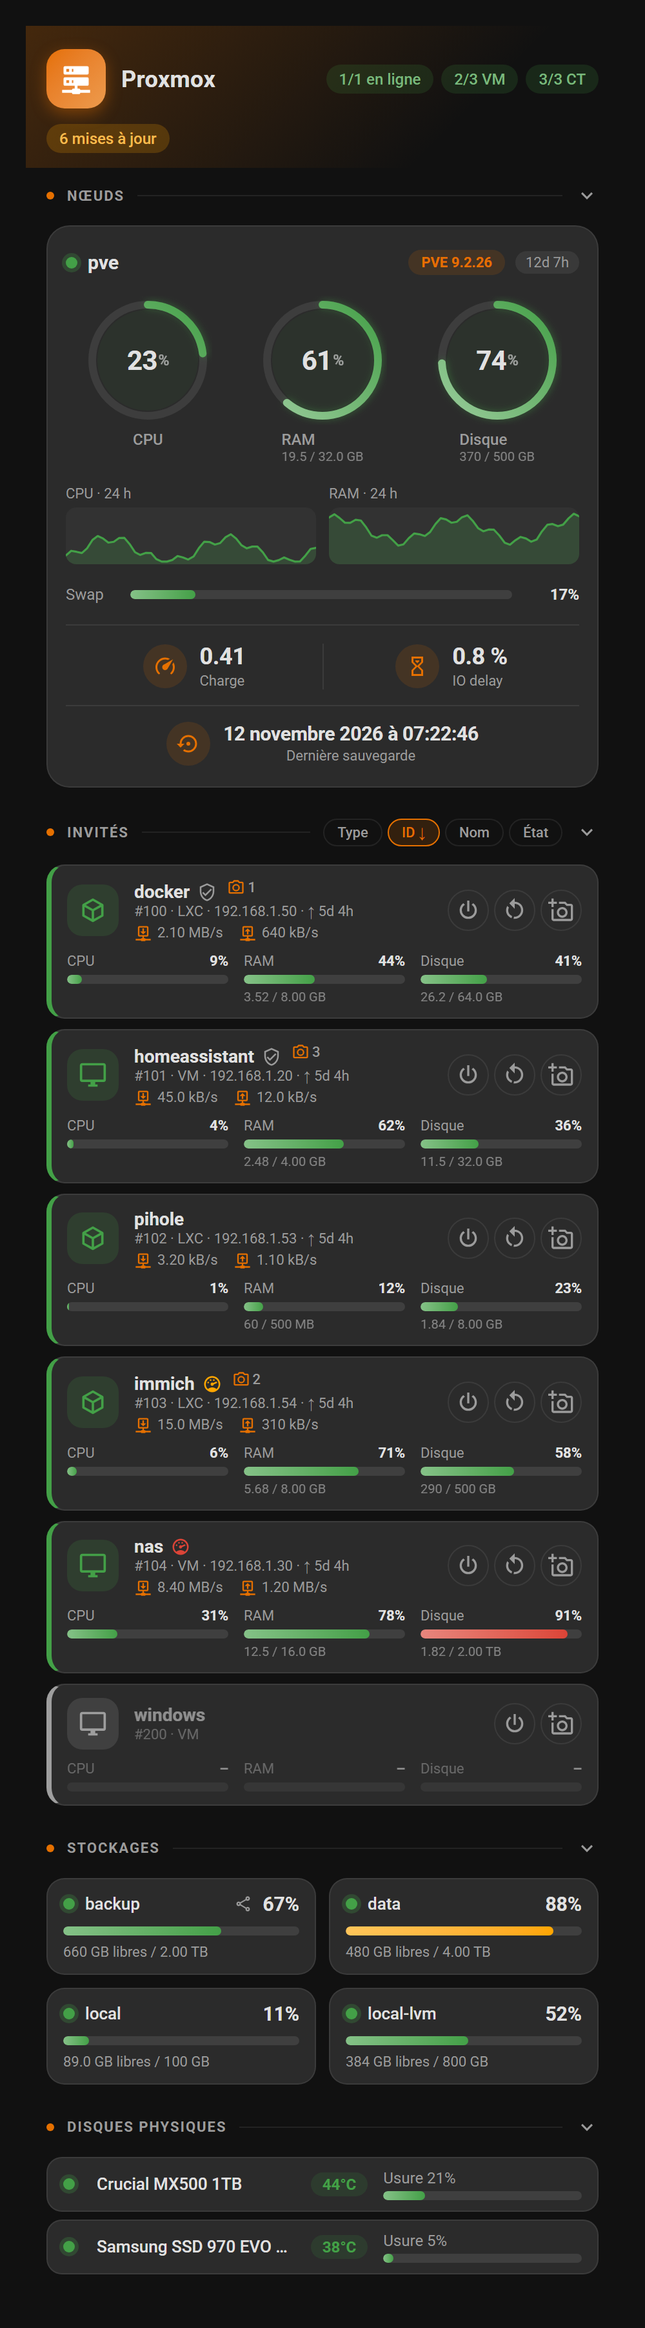
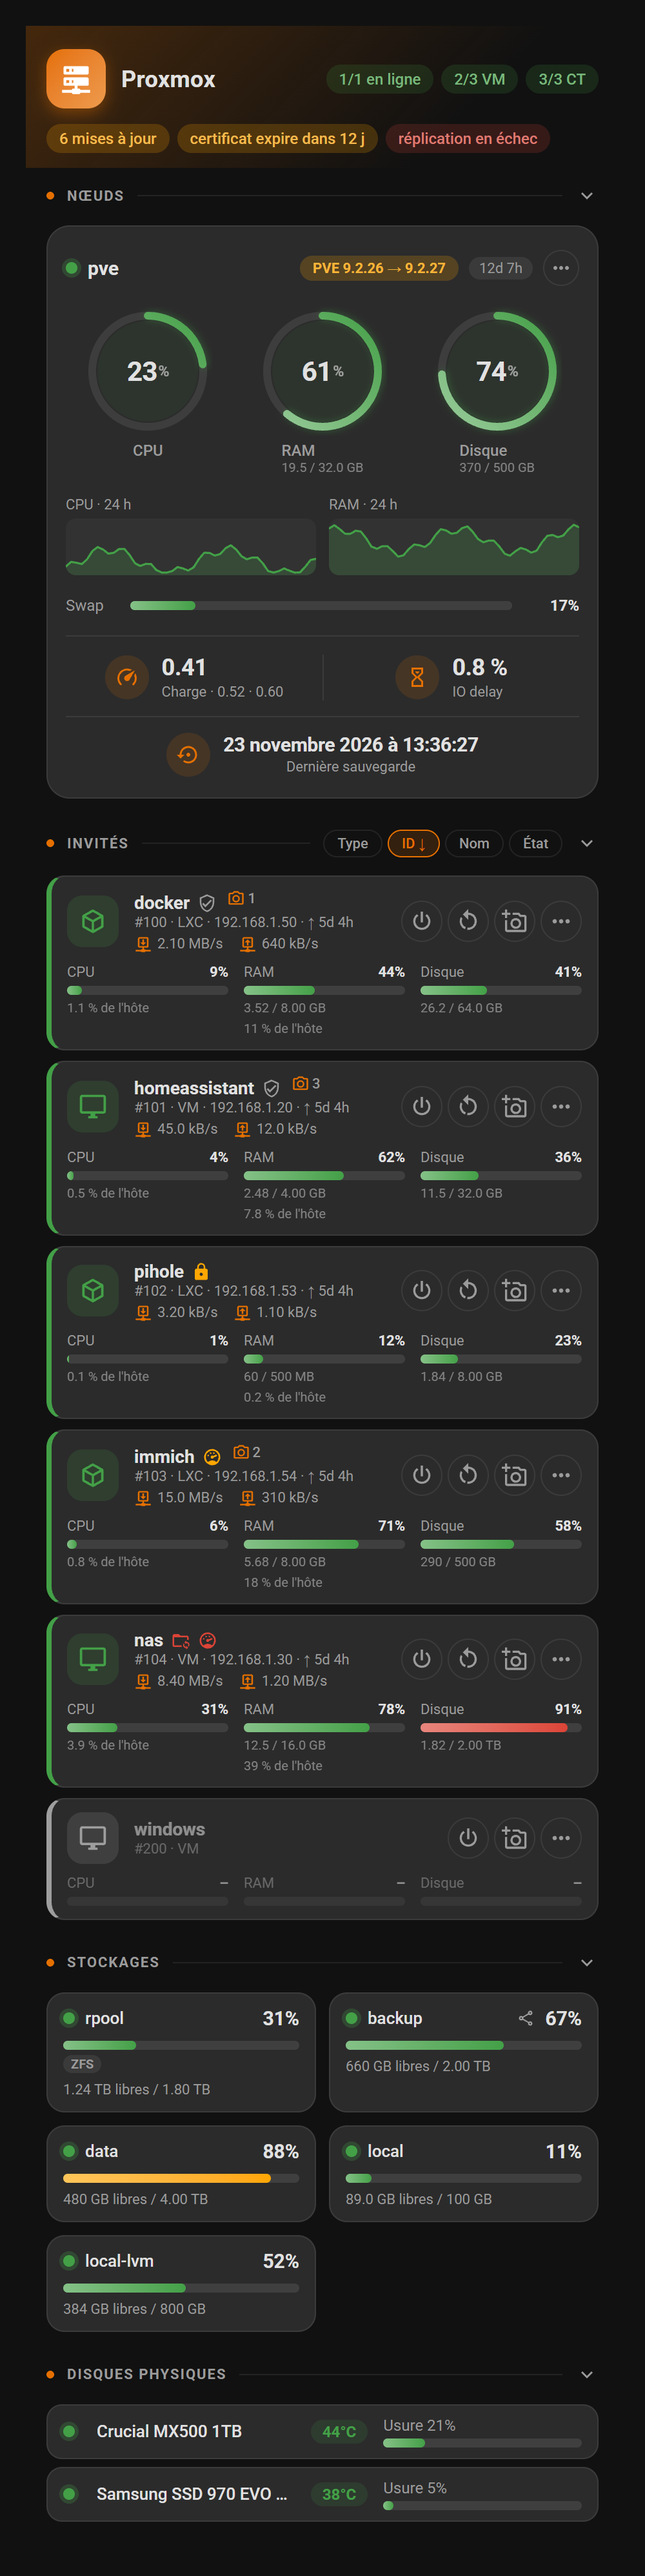
Plus de troncature (ZFS, Ceph, jauges des invités) et captures à jour (v1.3.1)
- Pools ZFS et Ceph : nom complet ; l'étiquette « ZFS » (avec le nœud
  s'il y en a plusieurs) ou « Cluster » passe sur une ligne à part.
- Jauges des invités : taille et part de l'hôte sur deux lignes.
- Captures du README régénérées (clair, sombre, téléphone) et commandes
  de capture mises à jour.

Changed region(s): [[0.031, 0.0, 0.93, 0.9939]]

diff --git a/dist/proxmox-card.js b/dist/proxmox-card.js
@@ -3,7 +3,7 @@
  * https://github.com/dougiteixeira/proxmoxve
  * Vanilla JS, Shadow DOM, no dependencies.
  */
-const VERSION = "1.3.0";
+const VERSION = "1.3.1";
 // Integration domain: `proxmoxve_custom` since proxmoxve 6.0; `proxmoxve` before (now also the domain of the core integration).
 const PLATFORM = "proxmoxve_custom", LEGACY_PLATFORM = "proxmoxve";
 
@@ -132,9 +132,9 @@ ha-card > * { position:relative; }
 .bd.info { color:var(--secondary-text-color); }
 .ssz { font-size:11px; color:var(--secondary-text-color); font-variant-numeric:tabular-nums; margin-top:-2px; }
 .stor.dis { opacity:.55; }
+.ssz.kind { display:flex; align-items:center; gap:6px; margin-top:-4px; } .ssz .tag { font-size:10px; font-weight:600; padding:1px 6px; border-radius:8px; background:color-mix(in srgb,var(--primary-text-color) 8%,transparent); }
 .ssz.crit { color:var(--px-crit); font-weight:600; } .ssz.warn { color:var(--px-warn); font-weight:600; }
 .dot.warn { background:var(--px-warn); }
-.sh .tag { flex:none !important; font-size:10px; font-weight:600; padding:1px 6px; border-radius:8px; color:var(--secondary-text-color); background:color-mix(in srgb,var(--primary-text-color) 8%,transparent); }
 .alerts .chip[data-more] { cursor:pointer; }
 .sh .shr { --mdc-icon-size:14px; color:var(--secondary-text-color); flex:none; }
 .gnet { display:flex; flex-wrap:wrap; gap:4px 12px; margin-top:3px; font-size:11px; color:var(--secondary-text-color); font-variant-numeric:tabular-nums; }
@@ -723,8 +723,10 @@ export class ProxmoxCard extends HTMLElement {
   _mini(label, v, thr, sz, host = null) {
     const { tip, text } = this._sizeInfo(sz);
     const hs = host === null ? "" : `${host < 10 ? host.toFixed(1) : Math.round(host)} % ${this._t("ofHost")}`;
-    const tt = [tip, hs].filter(Boolean).join(" · "), shown = [text, hs].filter(Boolean).join(" · ");
-    return `<div class="gm"${tt ? ` title="${esc(tt)}"` : ""}><div class="gl"><span>${label}</span><b>${v === null ? "–" : Math.round(v) + "%"}</b></div><div class="bar"><i class="${level(v, thr)}" style="width:${v ?? 0}%"></i></div>${shown ? `<small class="gs">${esc(shown)}</small>` : ""}</div>`;
+    const tt = [tip, hs].filter(Boolean).join(" · ");
+    // size and host share each on their own line: together they did not fit in a gauge column
+    const lines = [text, hs].filter(Boolean).map((x) => `<small class="gs">${esc(x)}</small>`).join("");
+    return `<div class="gm"${tt ? ` title="${esc(tt)}"` : ""}><div class="gl"><span>${label}</span><b>${v === null ? "–" : Math.round(v) + "%"}</b></div><div class="bar"><i class="${level(v, thr)}" style="width:${v ?? 0}%"></i></div>${lines}</div>`;
   }
 
   _sec(key, title, extra = "") {
@@ -849,8 +851,9 @@ export class ProxmoxCard extends HTMLElement {
     const r = p.roles, hs = this._state(r.zfs_health) || "", bad = hs && !ZFS_OK.test(hs);
     const v = this._pct(p, "disk"), sz = this._sizes(p, "disk");
     return `<div class="stor ${bad ? "off" : ""}" title="${esc(sz ? fmtUsedTotal(sz.used, sz.total) : "")}" data-more="${esc((r.zfs_health || r.disk_pct).entity_id)}">
-      <div class="sh"><span class="dot ${/^online$/i.test(hs) ? "on" : bad ? "off" : ""}"></span><span title="${esc(p.host)}">${esc(p.name)}${multi ? ` · ${esc(p.host)}` : ""}</span><span class="tag">ZFS</span><b>${v === null ? "–" : Math.round(v) + "%"}</b></div>
+      <div class="sh"><span class="dot ${/^online$/i.test(hs) ? "on" : bad ? "off" : ""}"></span><span title="${esc(p.name)}">${esc(p.name)}</span><b>${v === null ? "–" : Math.round(v) + "%"}</b></div>
       <div class="bar"><i class="${level(v, T.disk)}" style="width:${v ?? 0}%"></i></div>
+      <div class="ssz kind"><span class="tag">ZFS</span>${multi ? esc(p.host) : ""}</div>
       ${bad ? `<div class="ssz crit">${esc(hs)}</div>` : this._cfg.show_sizes && sz && sz.free !== null ? `<div class="ssz">${esc(fmtScaled(sz.free, SIZES))} ${esc(this._t("free"))} / ${esc(fmtScaled(sz.total, SIZES))}</div>` : ""}</div>`;
   }
   /** Ceph tile (Storage section), from the cluster device. */
@@ -858,8 +861,9 @@ export class ProxmoxCard extends HTMLElement {
     const r = cl.roles, hs = this._state(r.ceph_health), v = this._pct(cl, "ceph"), sz = this._sizes(cl, "ceph");
     const dot = hs === "ok" ? "on" : hs === "error" ? "off" : hs === "warning" ? "warn" : "";
     return `<div class="stor ${hs === "error" ? "off" : ""}" title="${esc(sz ? fmtUsedTotal(sz.used, sz.total) : "")}" data-more="${esc((r.ceph_health || r.ceph_pct).entity_id)}">
-      <div class="sh"><span class="dot ${dot}"></span><span>Ceph</span><span class="tag">${esc(this._t("cluster"))}</span><b>${v === null ? "–" : Math.round(v) + "%"}</b></div>
+      <div class="sh"><span class="dot ${dot}"></span><span>Ceph</span><b>${v === null ? "–" : Math.round(v) + "%"}</b></div>
       <div class="bar"><i class="${level(v, T.disk)}" style="width:${v ?? 0}%"></i></div>
+      <div class="ssz kind"><span class="tag">${esc(this._t("cluster"))}</span></div>
       ${hs === "warning" || hs === "error" ? `<div class="ssz ${hs === "error" ? "crit" : "warn"}">${esc(this._t(hs === "error" ? "cephErr" : "cephWarn"))}</div>` : this._cfg.show_sizes && sz && sz.free !== null ? `<div class="ssz">${esc(fmtScaled(sz.free, SIZES))} ${esc(this._t("free"))} / ${esc(fmtScaled(sz.total, SIZES))}</div>` : ""}</div>`;
   }
   _clusterTile(data, nOn, T) {

diff --git a/README.md b/README.md
@@ -360,8 +360,12 @@ Paramètres de la page de test : `?lang=en` (langue), `?theme=dark`, `?w=560` (l
 Les captures du README (`docs/screenshots/`) sont générées depuis cette page avec Edge ou Chrome en mode headless :
 
 ```bash
-msedge --headless=new --hide-scrollbars --force-device-scale-factor=2 --window-size=800,1210   --virtual-time-budget=12000 --screenshot=docs/screenshots/card-light.png   "http://localhost:8765/test/index.html?lang=en&single=1&w=760&shot=1"
+msedge --headless=new --hide-scrollbars --force-device-scale-factor=2 --window-size=800,1770 --virtual-time-budget=15000 --screenshot=docs/screenshots/card-light.png "http://localhost:8765/test/index.html?lang=en&single=1&w=760&shot=1"
+msedge --headless=new --hide-scrollbars --force-device-scale-factor=2 --window-size=800,1770 --virtual-time-budget=15000 --screenshot=docs/screenshots/card-dark.png "http://localhost:8765/test/index.html?lang=en&single=1&w=760&shot=1&theme=dark"
+msedge --headless=new --hide-scrollbars --force-device-scale-factor=2 --window-size=500,1995 --virtual-time-budget=15000 --screenshot=docs/screenshots/card-mobile.png "http://localhost:8765/test/index.html?lang=fr&single=1&w=460&shot=1&theme=dark&cfg=%7B%22node%22%3A%22pve%22%7D"
 ```
+
+La hauteur de la fenêtre (`--window-size`) doit suivre celle de la carte : à ajuster quand la carte grandit.
 
 ### Vérifications automatiques
 

diff --git a/CHANGELOG.md b/CHANGELOG.md
@@ -1,5 +1,11 @@
 # Changelog
 
+## 1.3.1
+
+- Pools ZFS et Ceph : le nom n'est plus tronqué sur les cartes larges ; l'étiquette « ZFS » (avec le nœud quand il y en a plusieurs) ou « Cluster » passe sur une ligne à part, sous la barre.
+- Invités : la taille et la part de l'hôte s'affichent sur deux lignes sous les jauges, au lieu d'une ligne tronquée.
+- Captures d'écran du README mises à jour.
+
 ## 1.3.0
 
 - Menu « ⋯ » sur les invités : reprendre, suspendre, mettre en veille prolongée (VM), réinitialiser, sauvegarder maintenant, déverrouiller. Seules les actions possibles dans l'état actuel sont proposées, avec confirmation par second clic pour les actions risquées.
